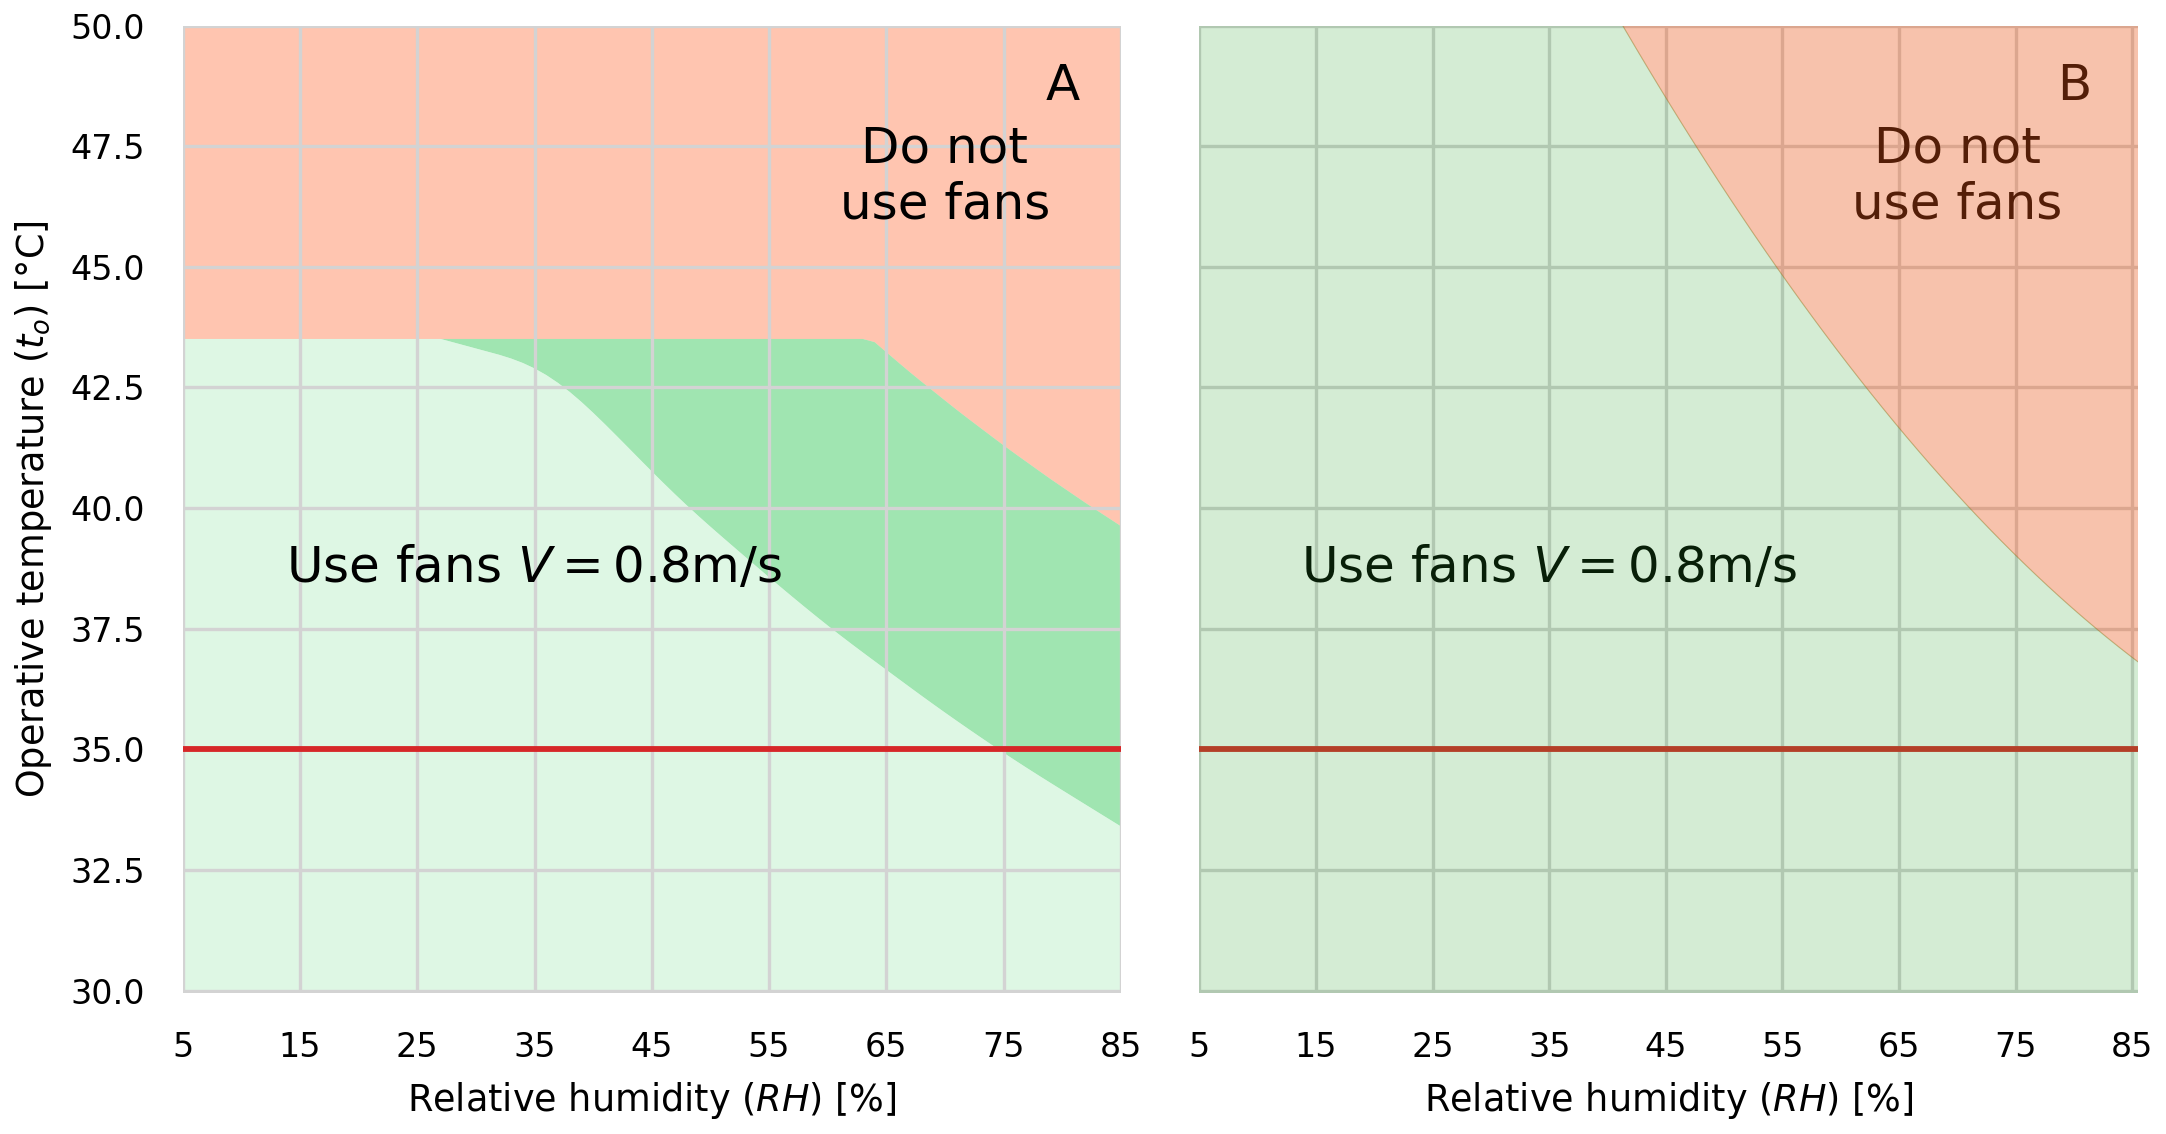
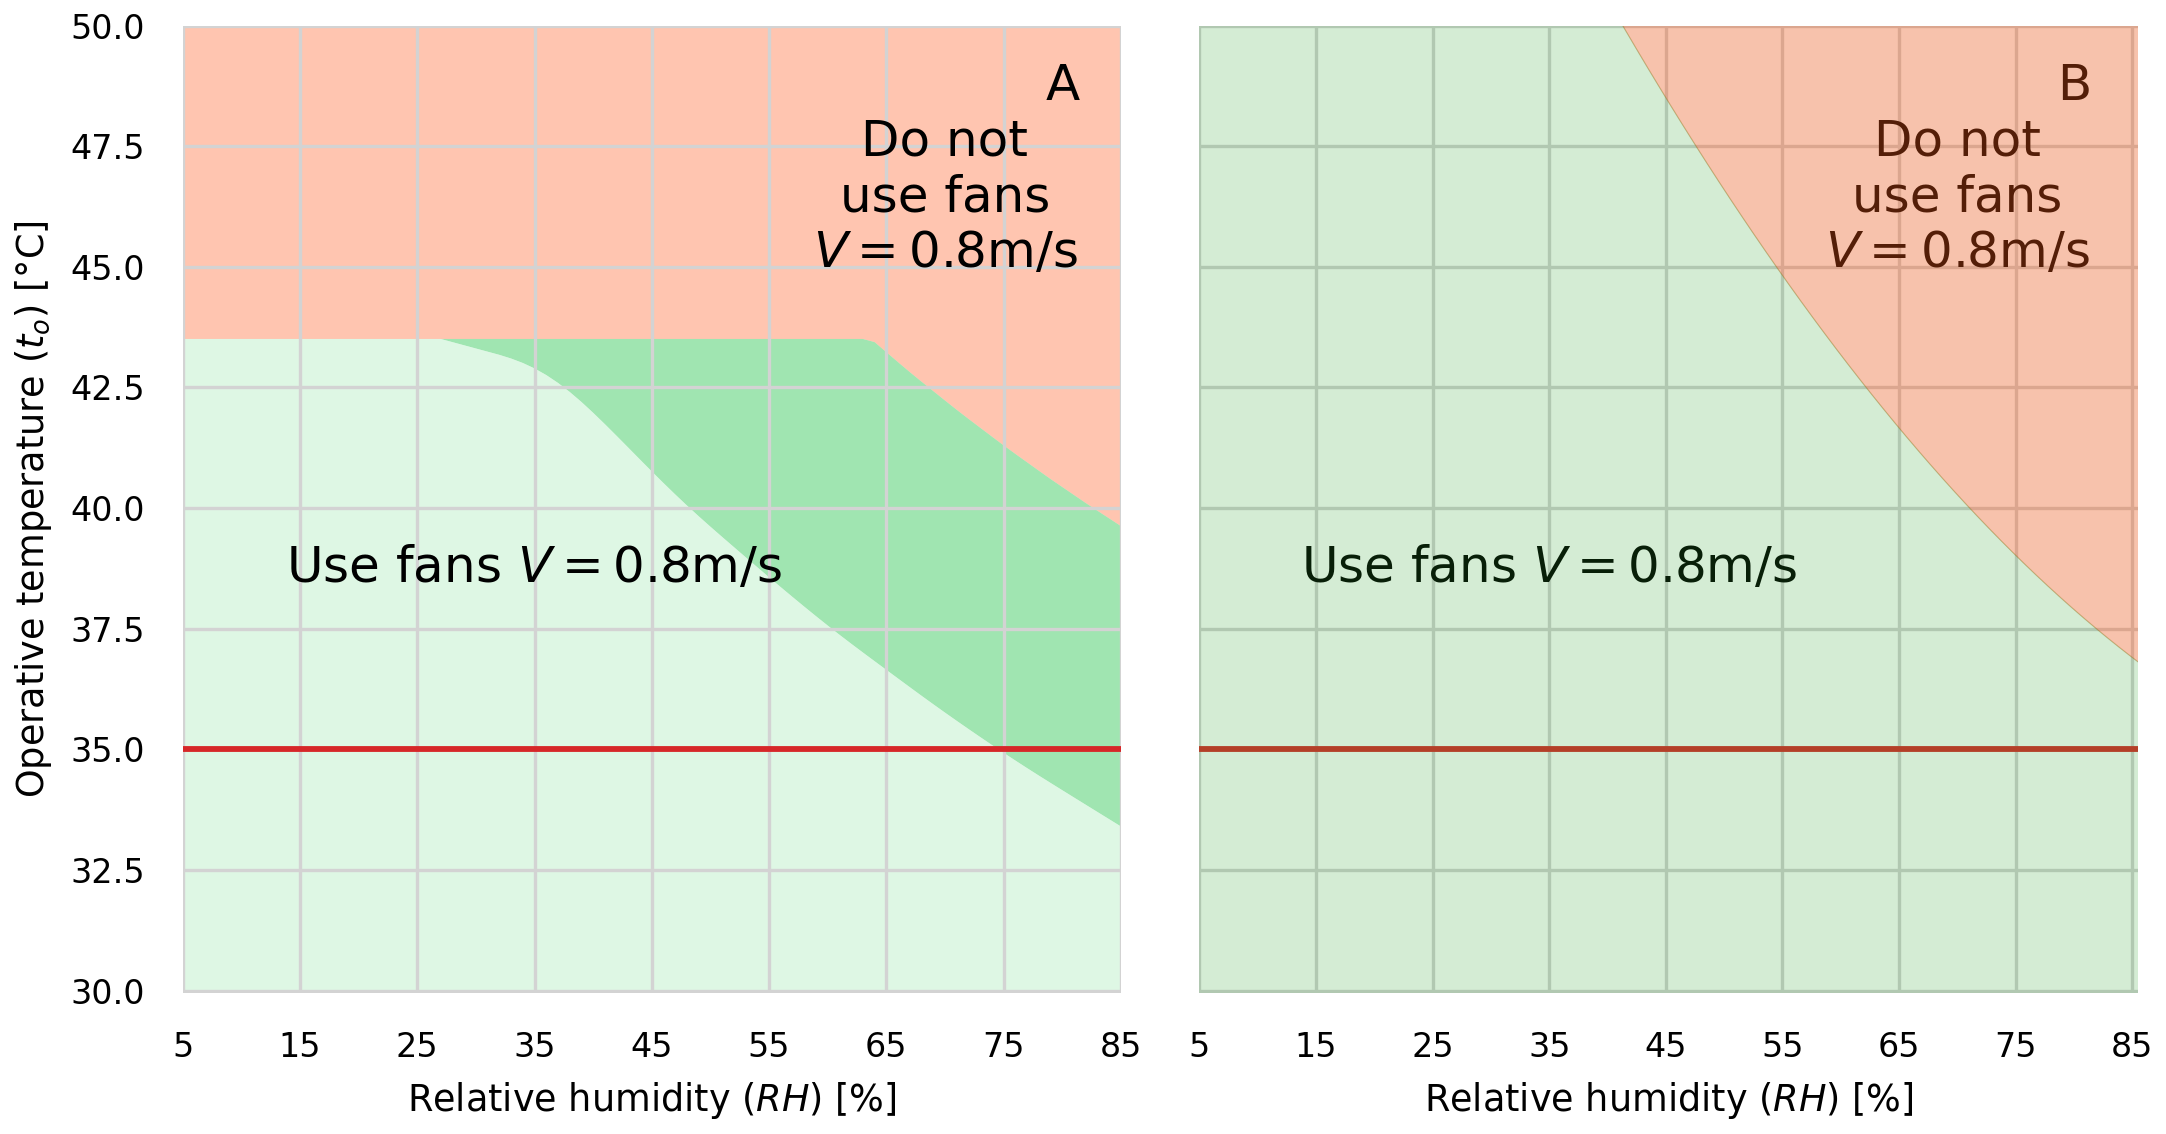
fix: gagge's equation calculating the self-generated air movement

Changed region(s): [[0.8352, 0.0926, 0.9589, 0.2469], [0.3712, 0.0926, 0.4949, 0.2469]]

diff --git a/code/main.py b/code/main.py
@@ -1085,7 +1085,7 @@ class DataAnalysis:
             xlabel=chart_labels["rh"],
             ylabel=chart_labels["top"],
             ylim=(29.9, 50),
-            xlim=(-1, 100),
+            xlim=(5, 85),
         )
 
         sns.despine(left=True, bottom=True, right=True)
@@ -2086,7 +2086,7 @@ class DataAnalysis:
         )
         ax[1].text(
             70,
-            46,
+            45,
             "Do not\nuse fans\n$V=0.8$m/s",
             size=12,
             ha="center",
@@ -2110,7 +2110,7 @@ class DataAnalysis:
         )
         ax[0].text(
             70,
-            46,
+            45,
             "Do not\nuse fans\n$V=0.8$m/s",
             size=12,
             ha="center",
@@ -2653,8 +2653,8 @@ if __name__ == "__main__":
         # "table_list_cities",
         # "compare_hospers_ashrae_weather",
         # "sweat_rate",
-        # "phs",
-        "graphical_abstract",
+        "phs",
+        # "graphical_abstract",
     ]
 
     save_figure = True
@@ -2676,9 +2676,9 @@ if __name__ == "__main__":
             self.met_clo_v(
                 save_fig=False,
                 combinations=[
-                    {"clo": 0.5, "met": 2, "ls": "dashed"},
+                    {"clo": 0.3, "met": 1.8, "ls": "dashed"},
                 ],
-                airspeeds=[0.2, 0.8],
+                airspeeds=[0.2, 0.6],
             )
         if figure_to_plot == "summary_use_fans_comparison_experimental":
             self.summary_use_fans_comparison_experimental(save_fig=save_figure)

diff --git a/code/heat_balance_model.py b/code/heat_balance_model.py
@@ -148,6 +148,8 @@ def fans_function_optimized(
     # h_fc forced convective heat transfer coefficient, W/(m2 C)
     h_fc = 8.600001 * pow((air_speed * pressure_in_atmospheres), 0.53)
     h_cc = max(h_cc, h_fc)
+    h_c_met = 5.66 * (met - 0.85) ** 0.39
+    h_cc = max(h_cc, h_c_met)
 
     c_hr = 4.7  # linearized radiative heat transfer coefficient
     ctc = c_hr + h_cc
